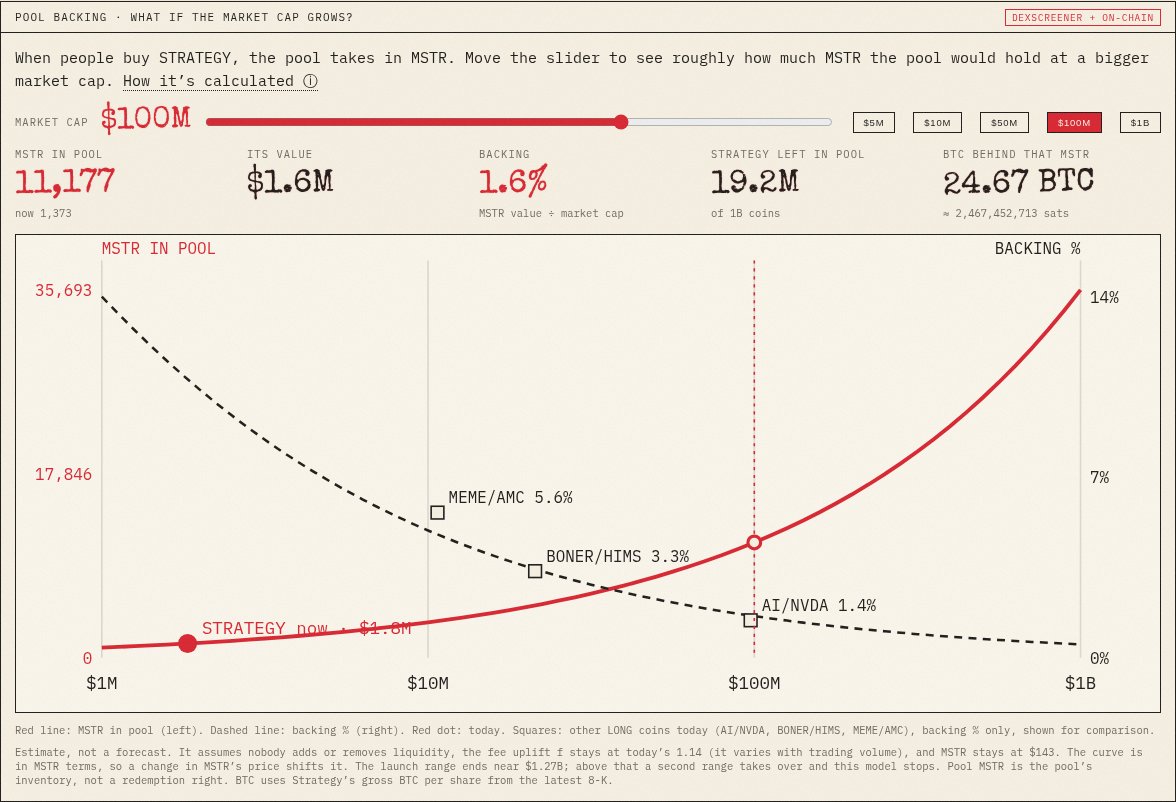
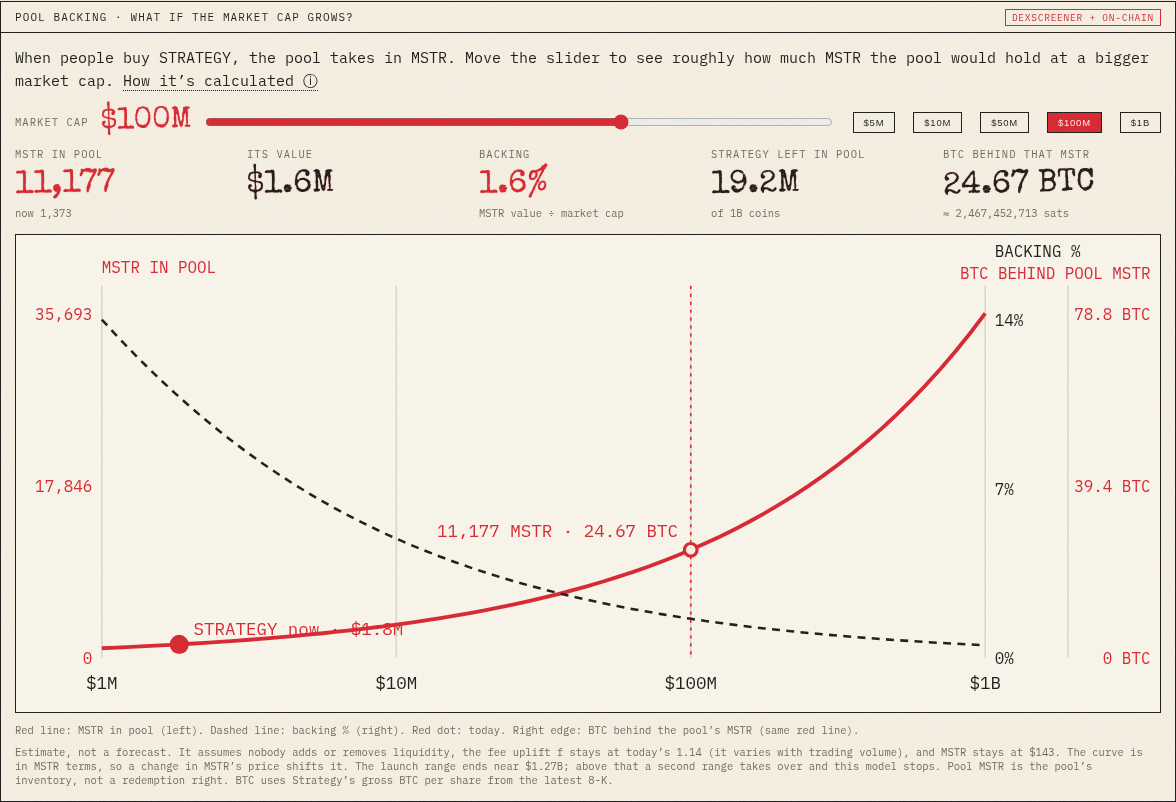
Pool backing: drop comparison coins, add BTC axis

diff --git a/app/strategy/PoolBacking.js b/app/strategy/PoolBacking.js
@@ -22,9 +22,9 @@ export default function PoolBacking({ D, F8 }) {
   const r = model(S, mc), now = S ? { mc: S.mcapUsd, mstr: S.stockInPool, pct: S.backingPct } : null;
   const formula = S ? `MSTR in pool ≈ L × (√p − √p_launch) × f, with p = market cap in MSTR ÷ 1B coins. L = ${num(S.L)} (on-chain launch range), launch at ≈ ${num(S.launchMcapStock)} MSTR market cap (≈ ${fmt(S.launchMcapStock * S.stockUsd)}), f = ${S.f?.toFixed(2)} (live pool MSTR ÷ curve), MSTR = ${fmt(S.stockUsd)}.` : '';
   // chart
-  const W = 720, H = 300, pl = 54, pr = 50, pt = 16, pb = 34, lx = v => pl + (Math.log10(v) - 6) / 3 * (W - pl - pr);
+  const W = 720, H = 300, pl = 54, pr = 110, pt = 32, pb = 34, lx = v => pl + (Math.log10(v) - 6) / 3 * (W - pl - pr);
   const pts = useMemo(() => S ? Array.from({ length: 61 }, (_, i) => { const v = Math.pow(10, 6 + i / 20); return { v, ...model(S, v) }; }) : [], [S]);
-  const ymax = Math.max(1, ...pts.map(p => p.mstr)) * 1.08, pmax = Math.max(12, ...pts.map(p => p.pct), now?.pct || 0, ...(D?.others || []).map(o => o.backingPct || 0)) * 1.1;
+  const ymax = Math.max(1, ...pts.map(p => p.mstr)) * 1.08, pmax = Math.max(12, ...pts.map(p => p.pct), now?.pct || 0) * 1.1;
   const ly = v => pt + (1 - v / ymax) * (H - pt - pb), ry = v => pt + (1 - v / pmax) * (H - pt - pb);
   const big = (k, v, red, sub) => <div><div className="k">{k}</div><div className="stamp" style={{ fontSize: 32, color: red ? '#d9232e' : '#1b1916' }}>{v ?? '—'}</div>{sub && <div className="k" style={{ textTransform: 'none', letterSpacing: 0 }}>{sub}</div>}</div>;
   return <Panel t="Pool backing · what if the market cap grows?" r={<St d={D} s="DEXSCREENER + ON-CHAIN" />}>
@@ -43,16 +43,15 @@ export default function PoolBacking({ D, F8 }) {
     </div>
     {S && <svg viewBox={`0 0 ${W} ${H}`} style={{ width: '100%', marginTop: 14, background: '#fbf7ec', border: '1px solid #1b1916' }} role="img" aria-label="MSTR in pool and backing percent versus market cap">
       {[1e6, 1e7, 1e8, 1e9].map(v => <g key={v}><line x1={lx(v)} x2={lx(v)} y1={pt} y2={H - pb} stroke="#1b191622" /><text x={lx(v)} y={H - 14} fontSize="11" textAnchor="middle" fill="#1b1916">{lab(v)}</text></g>)}
-      {[0, .5, 1].map(t => <g key={t}><text x={pl - 6} y={ly(ymax * t / 1.08) + 4} fontSize="10" textAnchor="end" fill="#d9232e">{num(Math.round(ymax * t / 1.08))}</text><text x={W - pr + 6} y={ry(pmax * t / 1.1) + 4} fontSize="10" fill="#1b1916">{(pmax * t / 1.1).toFixed(0)}%</text></g>)}
-      <text x={pl} y={pt - 4} fontSize="10" fill="#d9232e">MSTR IN POOL</text><text x={W - pr} y={pt - 4} fontSize="10" textAnchor="end" fill="#1b1916">BACKING %</text>
+      {[0, .5, 1].map(t => <g key={t}><text x={pl - 6} y={ly(ymax * t / 1.08) + 4} fontSize="10" textAnchor="end" fill="#d9232e">{num(Math.round(ymax * t / 1.08))}</text><text x={W - pr + 6} y={ry(pmax * t / 1.1) + 4} fontSize="10" fill="#1b1916">{(pmax * t / 1.1).toFixed(0)}%</text>{bps != null && <text x={W - 6} y={ly(ymax * t / 1.08) + 4} fontSize="10" textAnchor="end" fill="#d9232e">{(ymax * t / 1.08 * bps).toFixed(t ? 1 : 0)} BTC</text>}</g>)}
+      <text x={pl} y={pt - 8} fontSize="10" fill="#d9232e">MSTR IN POOL</text><text x={W - pr + 6} y={pt - 18} fontSize="10" fill="#1b1916">BACKING %</text>{bps != null && <text x={W - 6} y={pt - 4} fontSize="10" textAnchor="end" fill="#d9232e">BTC BEHIND POOL MSTR</text>}<line x1={W - pr + 52} x2={W - pr + 52} y1={pt} y2={H - pb} stroke="#1b191622" />
       <polyline fill="none" stroke="#d9232e" strokeWidth="2.4" points={pts.map(p => `${lx(p.v)},${ly(p.mstr)}`).join(' ')} />
       <polyline fill="none" stroke="#1b1916" strokeWidth="1.6" strokeDasharray="5 4" points={pts.map(p => `${lx(p.v)},${ry(p.pct)}`).join(' ')} />
-      {(D?.others || []).filter(o => !o.error && o.mcapUsd >= MIN && o.mcapUsd <= MAX).map(o => <g key={o.key}><rect x={lx(o.mcapUsd) - 4} y={ry(o.backingPct) - 4} width="8" height="8" fill="#f7f1e3" stroke="#1b1916" /><text x={lx(o.mcapUsd) + 7} y={ry(o.backingPct) - 6} fontSize="10" fill="#1b1916">{o.key}/{o.stock} {o.backingPct.toFixed(1)}%</text></g>)}
       {r && <line x1={lx(mc)} x2={lx(mc)} y1={pt} y2={H - pb} stroke="#d9232e" strokeDasharray="2 3" />}
-      {r && <circle cx={lx(mc)} cy={ly(r.mstr)} r="4" fill="#f7f1e3" stroke="#d9232e" strokeWidth="2" />}
+      {r && <g><circle cx={lx(mc)} cy={ly(r.mstr)} r="4" fill="#f7f1e3" stroke="#d9232e" strokeWidth="2" /><text x={lx(mc) - 8} y={ly(r.mstr) - 8} fontSize="11" textAnchor="end" fill="#d9232e">{num(Math.round(r.mstr))} MSTR{bps != null ? ' · ' + (r.mstr * bps).toFixed(2) + ' BTC' : ''}</text></g>}
       {now?.mc >= MIN && <g><circle cx={lx(now.mc)} cy={ly(now.mstr)} r="6" fill="#d9232e" /><text x={lx(now.mc) + 9} y={ly(now.mstr) - 6} fontSize="11" fill="#d9232e">STRATEGY now · {lab(now.mc)}</text></g>}
     </svg>}
-    <div className="k" style={{ marginTop: 6, textTransform: 'none', letterSpacing: 0 }}>Red line: MSTR in pool (left). Dashed line: backing % (right). Red dot: today. Squares: other LONG coins today (AI/NVDA, BONER/HIMS, MEME/AMC), backing % only, shown for comparison.</div>
+    <div className="k" style={{ marginTop: 6, textTransform: 'none', letterSpacing: 0 }}>Red line: MSTR in pool (left). Dashed line: backing % (right). Red dot: today. Right edge: BTC behind the pool’s MSTR (same red line).</div>
     <F>Estimate, not a forecast. It assumes nobody adds or removes liquidity, the fee uplift f stays at today’s {S?.f ? S.f.toFixed(2) : '—'} (it varies with trading volume), and MSTR stays at {S ? fmt(S.stockUsd) : '—'}. The curve is in MSTR terms, so a change in MSTR’s price shifts it. The launch range ends near {S ? lab(S.rangeTopMcapStock * S.stockUsd) : '$1.27B'}; above that a second range takes over and this model stops. Pool MSTR is the pool’s inventory, not a redemption right. BTC uses Strategy’s gross BTC per share from the latest 8-K.</F>
   </Panel>;
 }

diff --git a/app/api/pool-backing/route.js b/app/api/pool-backing/route.js
@@ -5,9 +5,6 @@ export const dynamic = 'force-dynamic';
 const T = t => Math.pow(1.0001, t);
 const COINS = [
[4 lines of base64/hex data omitted]
 ];
 const SUPPLY = 1e9;
 async function one(c) {
@@ -35,7 +32,7 @@ export async function GET(req) {
       const rs = await Promise.allSettled(COINS.map(one));
       const coins = rs.map((r, i) => r.status === 'fulfilled' ? r.value : { key: COINS[i].key, stock: COINS[i].stock, error: true });
       if (coins[0].error) throw new Error('strategy pair unavailable');
-      return { ok: true, source: 'dexscreener + onchain launch ranges', supply: SUPPLY, fetchedAt: new Date().toISOString(), strategy: coins[0], others: coins.slice(1) };
+      return { ok: true, source: 'dexscreener + onchain launch ranges', supply: SUPPLY, fetchedAt: new Date().toISOString(), strategy: coins[0] };
     });
     return json(value, { origin, sMaxAge: 60, swr: 300, headers: { 'X-Cache': cache } });
   } catch (_) {
